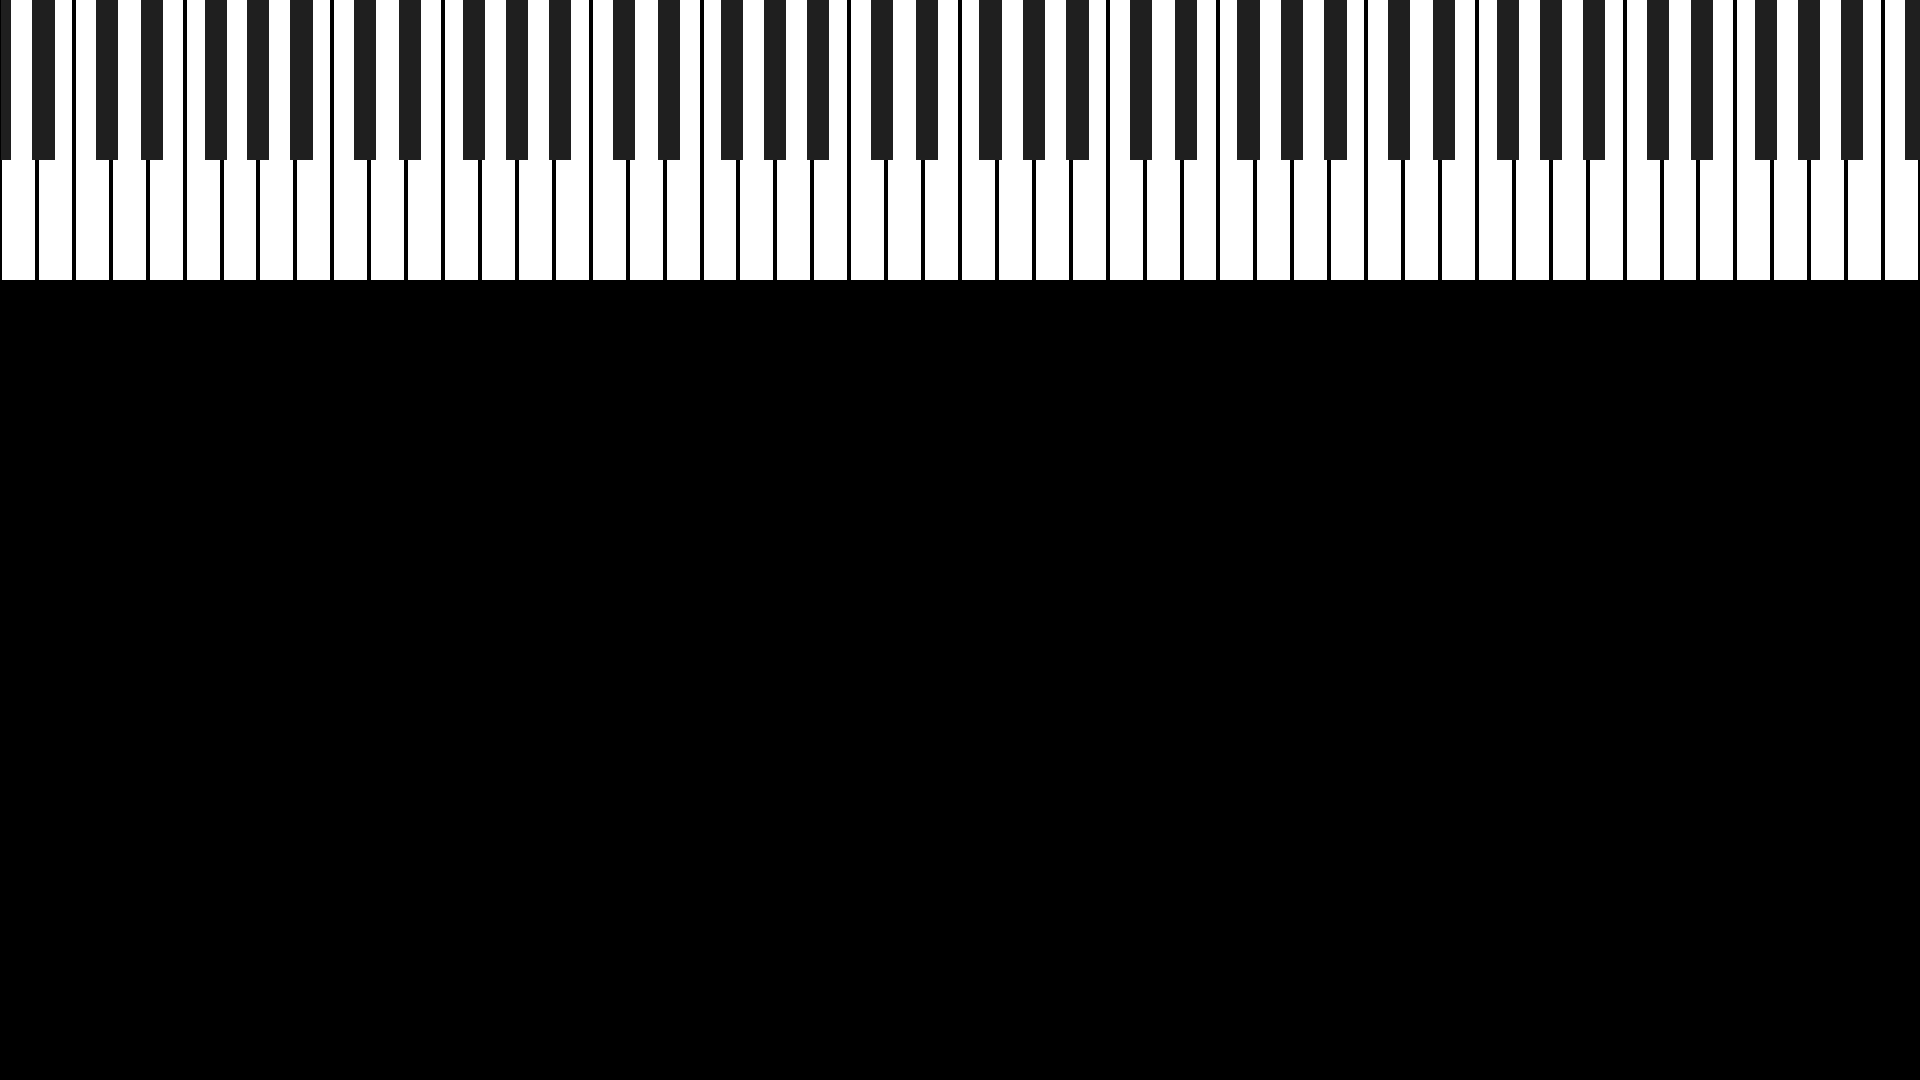
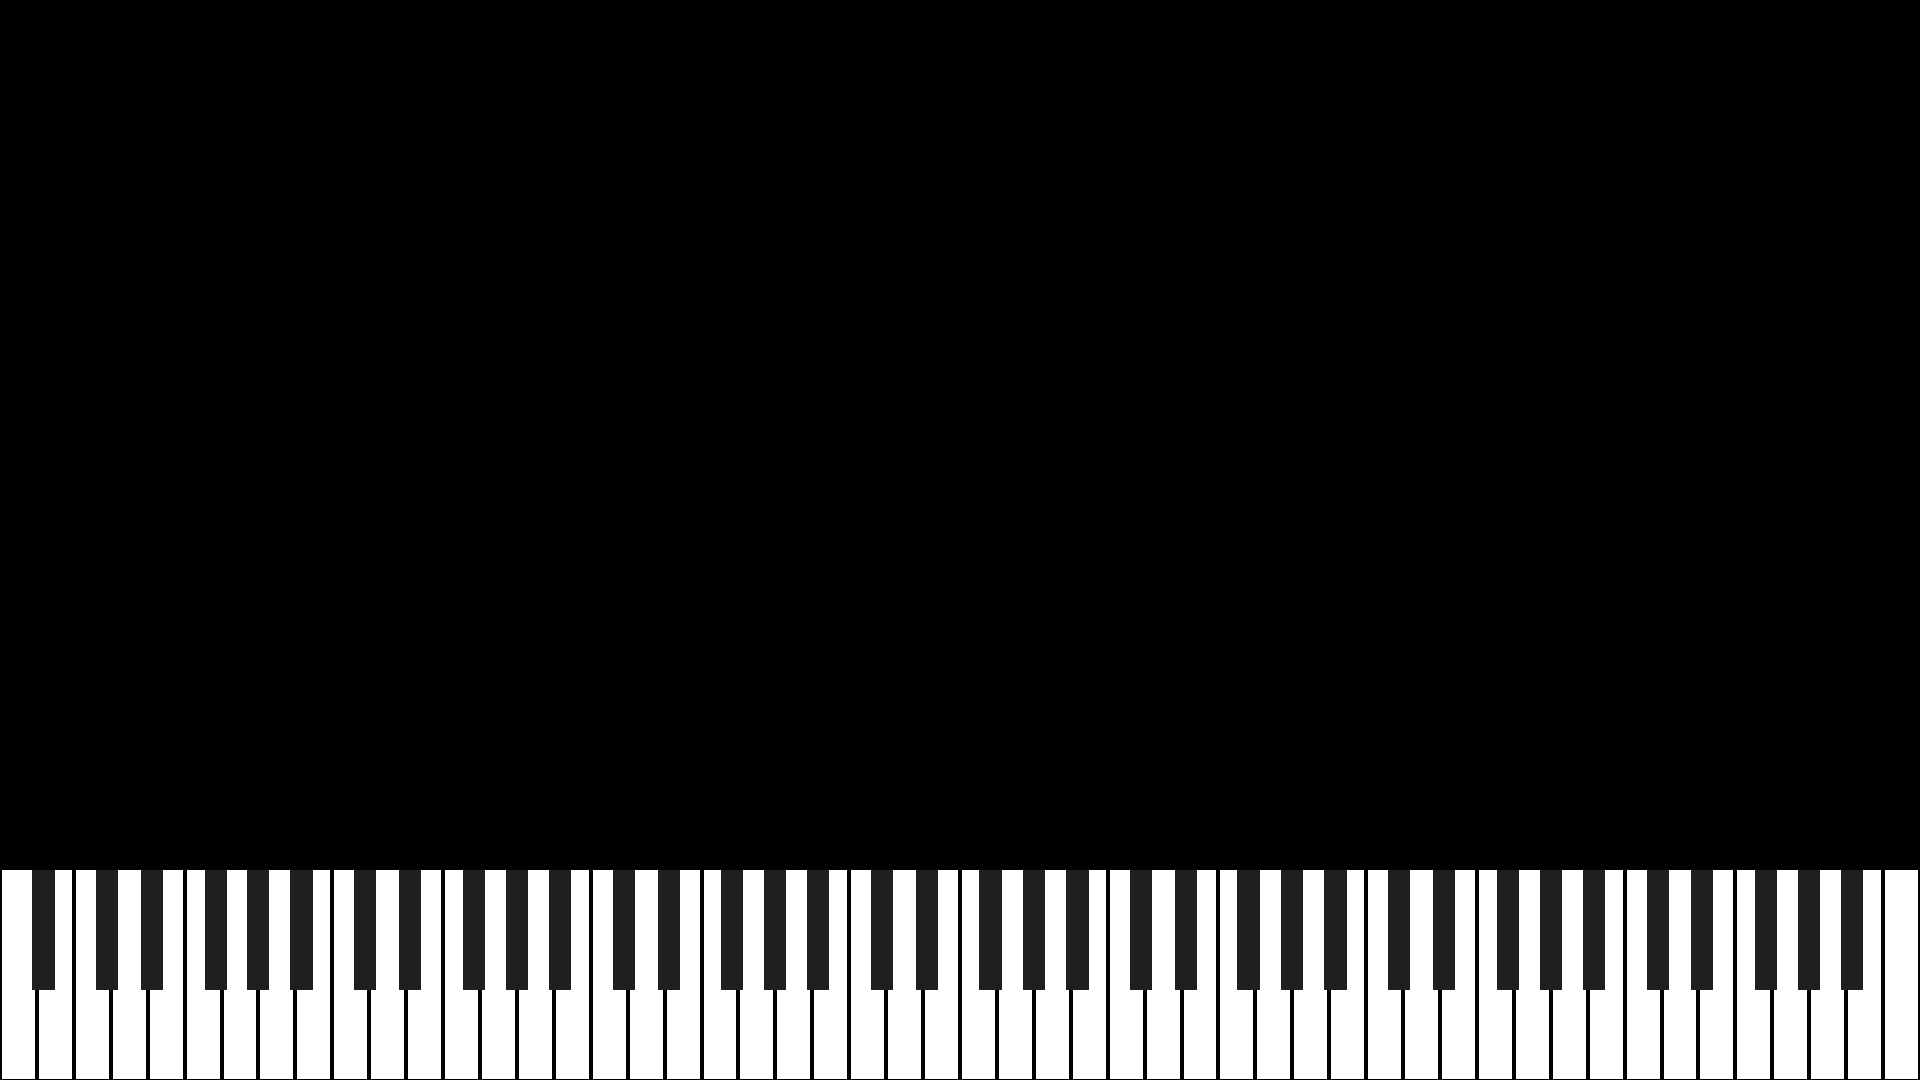
some cleanup on keyboard

diff --git a/main.py b/main.py
@@ -11,7 +11,7 @@ parser.add_argument('-wi', '--width', type=int, default=1920, help='width of the
 parser.add_argument('-hi', '--height', type=int, default=1080, help='height of the video')
 parser.add_argument('-s', '--start', type=int, default=21, help='start note')
 parser.add_argument('-e', '--end', type=int, default=108, help='end note')
-parser.add_argument('-kh', '--keyboard-height', type=int, default=280, help='keyboard height')
+parser.add_argument('-kh', '--keyboard-height', type=int, default=210, help='keyboard height')
 parser.add_argument('-st', '--stretch', type=int, default=960000000, help='stretch constant')
 
 
@@ -94,6 +94,13 @@ whitecount = np.count_nonzero(keyboard == 1)
 notes = np.zeros((end-start,3), dtype=np.int16)
 idx = 0
 blackwidth = round(width / whitecount) / 1.5
+blackconstant = {
+    1:(0.666666,0.333333),
+    3:(0.333333,0.666666),
+    6:(0.75,0.25),
+    8:(0.5,0.5),
+    10:(0.25,0.75)
+}
 for note in range(end-start):
     prevnote = notes[note-1][1]
     if keyboard[note] == 1: idx += 1
@@ -104,21 +111,10 @@ for note in range(end-start):
         else:
             notes[note] = [notes[note-2][1], whitewidth, 1]
     else:
-        if (start+note)%12 == 1:
-            notes[note] = [max(round(prevnote-blackwidth/1.5), 0), round(notes[note-1][1]+blackwidth/3), 0]
-            pass
-        elif (start+note)%12 == 3:
-            notes[note] = [max(round(prevnote-blackwidth/3), 0), round(notes[note-1][1]+blackwidth/1.5), 0]
-            pass
-        elif (start+note)%12 == 6:
-            notes[note] = [max(round(prevnote-blackwidth*0.75), 0), round(notes[note-1][1]+blackwidth*0.25), 0]
-            pass
-        elif (start+note)%12 == 8:
-            notes[note] = [max(round(prevnote-blackwidth*0.5), 0), round(notes[note-1][1]+blackwidth*0.5), 0]
-            pass
-        elif (start+note)%12 == 10:
-            notes[note] = [max(round(prevnote-blackwidth*0.25), 0), round(notes[note-1][1]+blackwidth*0.75), 0]
-            pass
+        notes[note] = [
+            max(round(prevnote-blackwidth*blackconstant[(start+note)%12][0]), 0),
+            round(notes[note-1][1]+blackwidth*blackconstant[(start+note)%12][1]), 0
+        ]
 print(notes)
 
 
@@ -127,9 +123,9 @@ image = np.zeros((height, width, 3), dtype=np.uint8)
 
 for note in notes:
     if note[2] == 1:
-        image[0:keyboardheight, note[0]+2:note[1]-2] = [255,255,255]
+        image[-keyboardheight:-1, note[0]+2:note[1]-2] = [255,255,255]
 for note in notes:
     if note[2] == 0:
-        image[0:round((4*keyboardheight)/7), note[0]+1:note[1]-1] = [31,31,31]
+        image[-keyboardheight:-round((3*keyboardheight)/7), note[0]+1:note[1]-1] = [31,31,31]
 img = Image.fromarray(image, 'RGB')
 img.save('my.png')
